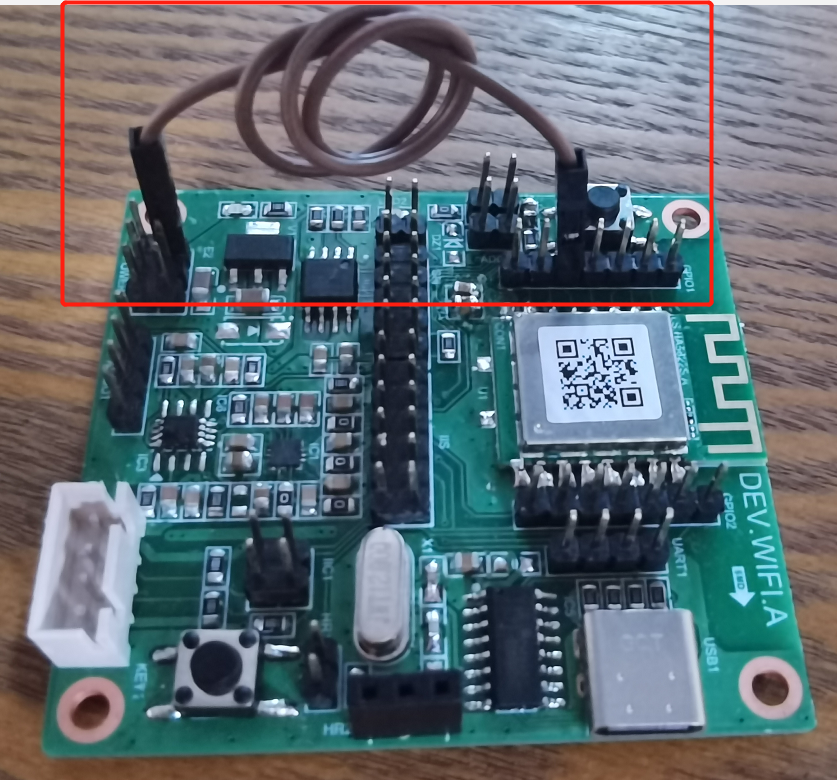
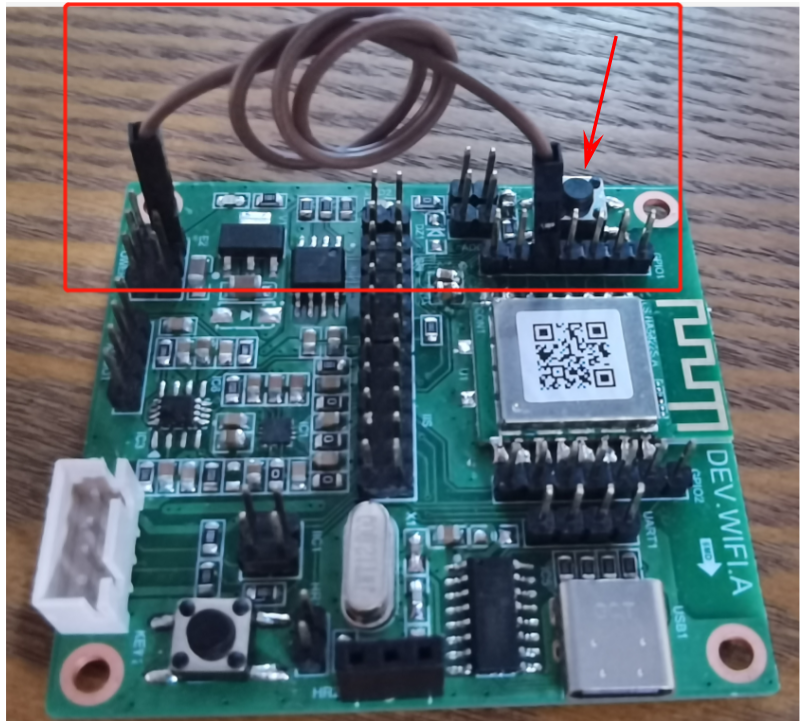
update README

diff --git a/README_ZH.md b/README_ZH.md
@@ -2,7 +2,7 @@
 
 ## 介绍
 
-朗国DEV.WIFI.A开发板(以下称开发板)作为一款基于OpenHarmonyOS而设计的IOT开发板，集成了高性能的WIFI-BLE双模芯片ASR5822、外部存储芯片、语音播放芯片以及模数转换等，同时支持SPI等iot设备常用外设接口，可外扩OLED显示屏、红外遥控等。
+朗国DEV.WIFI.A开发板(以下称开发板)作为一款基于OpenHarmonyOS而设计的IOT开发板，集成了高性能的WIFI-BLE双模芯片ASR5822、外部存储芯片、语音播放芯片以及模数转换等，同时支持SPI等IOT设备常用外设接口，可外扩OLED显示屏、红外遥控等。
 
 开发板外观如下图所示：
 
@@ -15,19 +15,19 @@
 
 | 器件类别     | 开发板                                                              |
 | -------------- | --------------------------------------------------------------------- |
-| CPU          | 型号：ASR5822 ; 主频：最高 160MHz ; Flash：4MB/2MB RAM：352KB       |
-| Wifi特性     | 支持 802.11b/g/n 无线标准 ; 支持内置PCB 天线 ; 支持 STA/AP 工作模式 |
-| BLE特性      | 支持BLE 配网                                                        |
-| 外部存储     | W25Q64 : 64M Bit IIC接口存储芯片                                    |
-| 语音播放     | IIS音频解码IC(ES7148) + 功放IC(NS4150) + 2.54mm排针接口             |
-| 模拟信号输入 | 预留一个ADC接口 (2.54mm排针)                                        |
-| 红外接收器   | 预留VS1838B 红外解码器接口 (2.54mm排座)                             |
-| OLED         | 预留一个4脚IIC OLED屏接口 (2.54mm排座)                              |
-| LED          | 板载一个电源指示灯：LED1 ；和一个可编程led灯：LED3                  |
+| CPU          | 型号：ASR5822 ; 主频：最高 160MHz ; Flash：4MB/2MB RAM：352KB;       |
+| Wifi特性     | 支持 802.11b/g/n 无线标准 ; 支持内置PCB 天线 ; 支持 STA/AP 工作模式; |
+| BLE特性      | 支持BLE 配网。                                                        |
+| 外部存储     | W25Q64 : 64M Bit IIC接口存储芯片。                                    |
+| 语音播放     | IIS音频解码IC(ES7148) + 功放IC(NS4150) + 2.54mm排针接口。             |
+| 模拟信号输入 | 预留一个ADC接口 (2.54mm排针)。                                        |
+| 红外接收器   | 预留VS1838B 红外解码器接口 (2.54mm排座)。                             |
+| OLED         | 预留一个4脚IIC OLED屏接口 (2.54mm排座)。                              |
+| LED          | 板载一个电源指示灯：LED1 ；和一个可编程led灯：LED3。                  |
 | GPIO        | 13个GPIO 通过排针引出 与其它外设复用，可通过跳帽选择。              |
-| 按键         | 1个复位按键；1个可编程按键                                          |
-| USB转串口    | 板载ch340串口芯片                                                   |
-| 电源输入     | USB-C ; 输入电压5V ；工作电压3.3V                                   |
+| 按键         | 1个复位按键；1个可编程按键。                                          |
+| USB转串口    | 板载ch340串口芯片。                                                   |
+| 电源输入     | USB-C ; 输入电压5V ；工作电压3.3V；                                   |
 
 ## OpenHarmonyOS关键特性
 
@@ -36,16 +36,16 @@
 | -------------- | ------------------------------------------------------------------------------------------------ |
 | 内核         | LiteOS-M                                                                                        |
 | 上电启动     | 上电启动OpenHarmonyOS                                                                          |
-| WLAN服务     | 提供WLAN服务能力。包括：station和hotspot模式的连接、断开、状态查询等                           |
-| BLE服务      | 提供BLE服务能力。包括：开启/关闭广播、发送/接收数据等                                          |
+| WLAN服务     | 提供WLAN服务能力。包括：station和hotspot模式的连接、断开、状态查询等。                           |
+| BLE服务      | 提供BLE服务能力。包括：开启/关闭广播、发送/接收数据等。                                          |
 | 外设控制     | 提供操作外设的能力。包括：I2C、I2S、ADC、UART、SPI、GPIO、PWM、FLASH等。                       |
 | 基础加解密   | 提供密钥管理、加解密等能力。                                                                   |
 | 系统服务管理 | 系统服务管理基于面向服务的架构，提供了OpenHarmonyOS统一化的系统服务开发框架。                  |
 | 启动引导     | 提供系统服务的启动入口标识。在系统服务管理启动时，调用boostrap标识的入口函数，并启动系统服务。 |
-| 系统属性     | 提供获取与设置系统属性的能力                                                                   |
+| 系统属性     | 提供获取与设置系统属性的能力。                                                                   |
 | 基础库       | 提供公共基础库能力。包括：KV存储管理等。                                                       |
 | DFX          | 提供DFX能力。包括：流水日志、时间打点等。                                                      |
-| XTS          | 提供OpenHarmonyOS生态认证测试套件的集合能力                                                    |
+| XTS          | 提供OpenHarmonyOS生态认证测试套件的集合能力。                                                    |
 | 南向IDE      | HUAWEI DevEco Device Tool                                                                      |
 
 ## 编译与烧录
@@ -60,7 +60,7 @@
 
 ### 3. 进入烧录模式 (Uart boot 模式)
 
-如下图红框 将P8引脚短接到3.3V引脚，然后按旁边的复位按键(KEY_EN1) 进入烧录模式
+如下图红框 将P8引脚短接到3.3V引脚，然后按图中箭头所示的复位按键(KEY_EN1) 进入烧录模式
 ![开发板外观布局图](image/烧录模式.png)
 
 ### 4. 固件烧录
@@ -73,4 +73,4 @@
 
 ## 联系
 
-如果您在开发过程中有问题，请在仓库issues提问。
+如果您在开发过程中有问题，请在仓库[issues](https://gitee.com/openharmony-sig/device_board_lango/issues/new?issue%5Bassignee_id%5D=0&issue%5Bmilestone_id%5D=0)提问。
